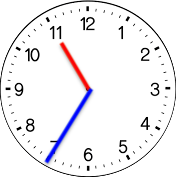
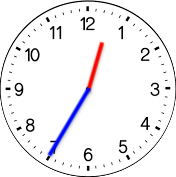
fixed clocks and slide

Changed region(s): [[0.2557, 0.226, 0.5966, 0.9322]]

diff --git a/Assets/Script/SlideCell.cs b/Assets/Script/SlideCell.cs
@@ -20,7 +20,7 @@ public class SlideCell : MonoBehaviour
     void Update()
     {   
         if(SlidePuzzle.solved) { 
-            if(name.Equals("12") || name.Equals("1") || name.Equals("35") || name.Equals("9")) { 
+            if(name.Equals("7") || name.Equals("1") || name.Equals("35") || name.Equals("40")) { 
                 renderer.material.SetColor("_Color", Color.green);
             }
         }
@@ -28,8 +28,8 @@ public class SlideCell : MonoBehaviour
         else if(name.Equals("1")) SlidePuzzle.solvers[0] = false;
         if(name.Equals("50") && y == 0 && z == 1) SlidePuzzle.solvers[1] = true;
         else if(name.Equals("50")) SlidePuzzle.solvers[1] = false;
-        if(name.Equals("11") && y == 0 && z == 2) SlidePuzzle.solvers[2] = true;
-        else if(name.Equals("11")) SlidePuzzle.solvers[2] = false;
+        if(name.Equals("12") && y == 0 && z == 2) SlidePuzzle.solvers[2] = true;
+        else if(name.Equals("12")) SlidePuzzle.solvers[2] = false;
         if(name.Equals("35") && y == 0 && z == 3) SlidePuzzle.solvers[3] = true;
         else if(name.Equals("35")) SlidePuzzle.solvers[3] = false;
         if(name.Equals("6") && y == 1 && z == 0) SlidePuzzle.solvers[4] = true;
@@ -52,8 +52,8 @@ public class SlideCell : MonoBehaviour
         else if(name.Equals("4")) SlidePuzzle.solvers[12] = false;
         if(name.Equals("10") && y == 3 && z == 1) SlidePuzzle.solvers[13] = true;
         else if(name.Equals("10")) SlidePuzzle.solvers[13] = false;
-        if(name.Equals("12") && y == 3 && z == 2) SlidePuzzle.solvers[14] = true;
-        else if(name.Equals("12")) SlidePuzzle.solvers[14] = false;
+        if(name.Equals("7") && y == 3 && z == 2) SlidePuzzle.solvers[14] = true;
+        else if(name.Equals("7")) SlidePuzzle.solvers[14] = false;
         
     }
 

diff --git a/Assets/Script/BriefcaseController.cs b/Assets/Script/BriefcaseController.cs
@@ -50,7 +50,7 @@ public class BriefcaseController : MonoBehaviour
             box6.text = text6;
         }
 
-        if(box1.text == "1" && box2.text == "3" && box3.text == "5" && box4.text == "9" && box5.text == "1" && box6.text == "2")
+        if(box1.text == "1" && box2.text == "3" && box3.text == "5" && box4.text == "4" && box5.text == "0" && box6.text == "7")
         {
             briefcaseCorrect = true; 
             r1.material.SetColor("_Color", Color.green);
